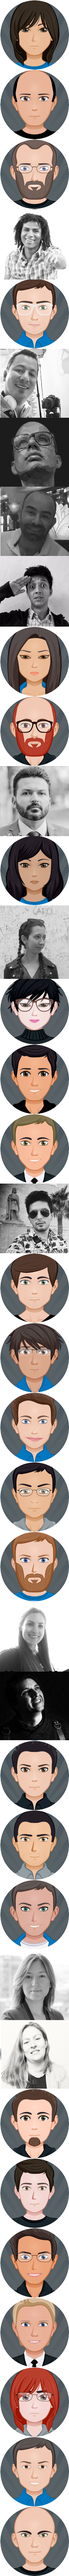
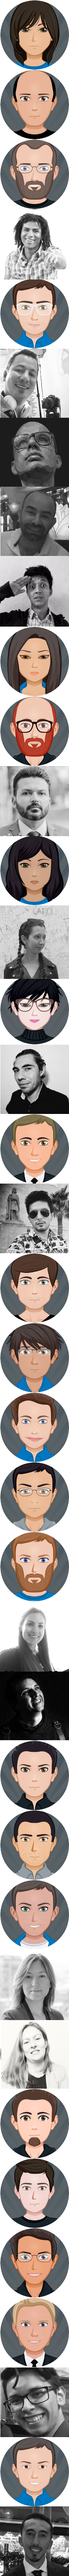
Added Cristian y Omar to the roster

Changed region(s): [[0.0, 0.9053, 1.0, 1.0], [0.0, 0.4058, 1.0, 0.437]]

diff --git a/index.html b/index.html
@@ -33662,6 +33662,24 @@ Una forma segura de diversión.
                         <p class="a0" style="font-size: 18px;">Directora Recursos Humanos</p>
                       </div></div>
                     </div>
+                    <div class="lg-item">
+                      <div style="text-align: center; cursor: pointer; width: 222px;">
+                        <div class="flex-container flex-center">
+                      <div class="staff-sprites" style="width: 200px; height: 200px; margin-left: 20px; background-position: 0 -6800px;"></div>
+                        <div style="padding-top: 15px;"></div>
+                        <h3>Cristian Hernandez</h3>
+                        <p class="a0" style="font-size: 18px;">Director Iluminación</p>
+                      </div></div>
+                    </div>
+                    <div class="lg-item">
+                      <div style="text-align: center; cursor: pointer; width: 222px;">
+                        <div class="flex-container flex-center">
+                      <div class="staff-sprites" style="width: 200px; height: 200px; margin-left: 20px; background-position: 0 -7200px;"></div>
+                        <div style="padding-top: 15px;"></div>
+                        <h3>Omar Mendoza Luengas</h3>
+                        <p class="a0" style="font-size: 18px;">Director Actores</p>
+                      </div></div>
+                    </div>
                     
                   </div>
                 </div>
